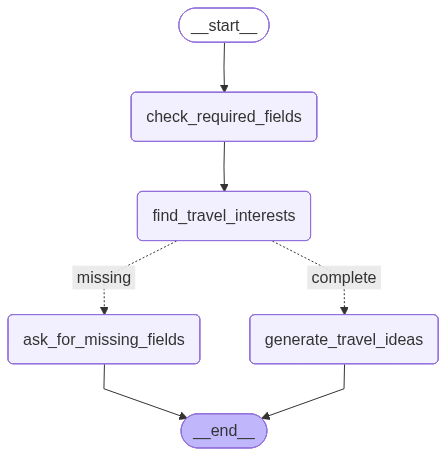
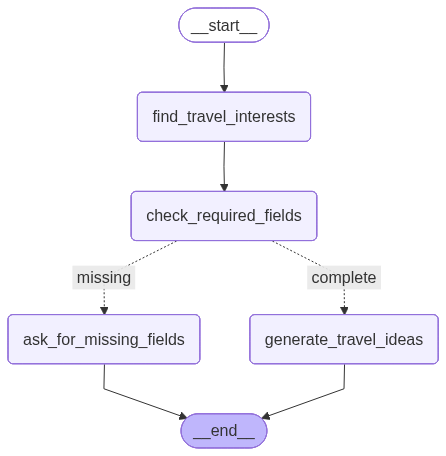
update workflow order

Changed region(s): [[0.2915, 0.3991, 0.7287, 0.5526], [0.2915, 0.1842, 0.7287, 0.307]]

diff --git a/travel_agent.py b/travel_agent.py
@@ -27,7 +27,7 @@ def add_edges(workflow):
     workflow.add_edge(START, "find_travel_interests")
     workflow.add_edge("find_travel_interests", "check_required_fields")
     workflow.add_conditional_edges(
-        "find_travel_interests",
+        "check_required_fields",
         route_after_checks,
         {
             "missing": "ask_for_missing_fields",
